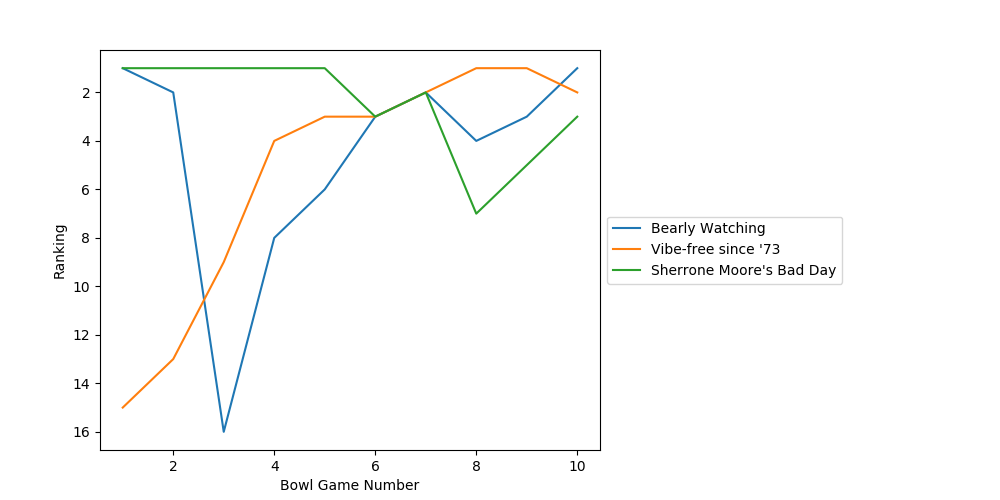
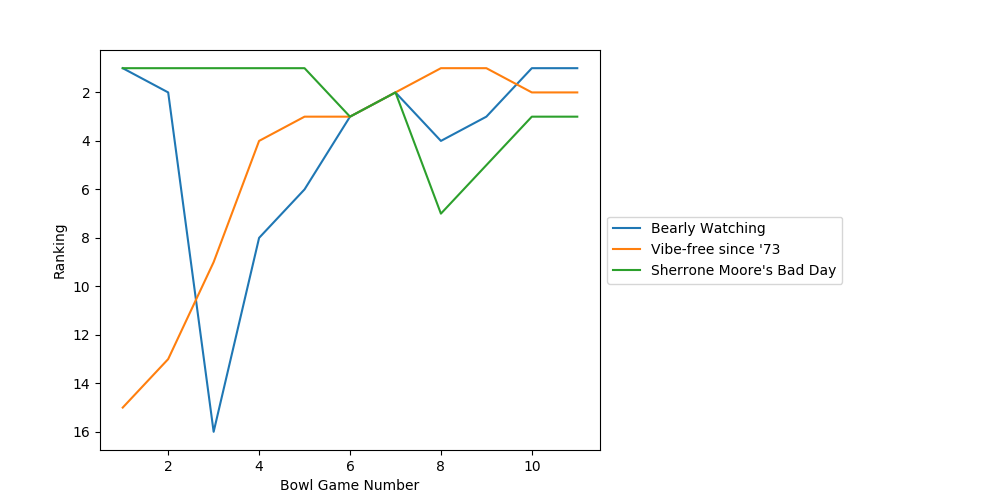
hawaii bowl update

diff --git a/bowl_pool/2025-2026/rankings.html b/bowl_pool/2025-2026/rankings.html
@@ -365,36 +365,36 @@ ul.auto-toc {
 
 
 <div class="line-block">
-<div class="line"><em>Last updated:  2025-12-24 16:04:07</em></div>
-<div class="line"><em>Last bowl scored:  SCOOTER'S COFFEE FRISCO BOWL (UNLV vs. Ohio (Bobcats))</em></div>
+<div class="line"><em>Last updated:  2025-12-25 02:04:59</em></div>
+<div class="line"><em>Last bowl scored:  SHERATON HAWAIʻI BOWL (California vs. Hawaii)</em></div>
 </div>
 <div class="line-block">
-<div class="line">1. <strong>Bearly Watching 15.25</strong></div>
-<div class="line">2. <strong>Vibe-free since '73 14.75</strong></div>
-<div class="line">3. <strong>Sherrone Moore's Bad Day 14.25</strong></div>
-<div class="line">3. We Pay Players 14.25</div>
-<div class="line">5. Battered Austin Syndrome 13.5</div>
-<div class="line">6. Mama Dawg 12.75</div>
-<div class="line">7. Down 12.5</div>
-<div class="line">8. Barkside Ballers 12.25</div>
-<div class="line">8. Dazed and Confoosballed 12.25</div>
-<div class="line">8. Eclipse 12.25</div>
-<div class="line">8. First Round SIL 12.25</div>
-<div class="line">12. #MamaBear 12.0</div>
-<div class="line">13. Wisconsin shoud've been here 10.75</div>
-<div class="line">14. Just Call Me Dr. 10.5</div>
-<div class="line">15. Sierra LeCat Dowdle 10.25</div>
-<div class="line">15. Upside 10.25</div>
-<div class="line">17. bugaroo 10.0</div>
-<div class="line">18. BlueOrRed 9.5</div>
-<div class="line">19. Sascha Picks Dogs 9.25</div>
-<div class="line">19. NoNND-Bo 2 9.25</div>
-<div class="line">19. Not So New Guy 9.25</div>
-<div class="line">22. Momma Longhorn 8.25</div>
-<div class="line">22. Call Me An Optimist 8.25</div>
+<div class="line">1. <strong>Bearly Watching 16.25</strong></div>
+<div class="line">2. <strong>Vibe-free since '73 15.75</strong></div>
+<div class="line">3. <strong>Sherrone Moore's Bad Day 15.25</strong></div>
+<div class="line">4. Battered Austin Syndrome 14.5</div>
+<div class="line">5. We Pay Players 14.25</div>
+<div class="line">6. Mama Dawg 13.75</div>
+<div class="line">7. Eclipse 13.25</div>
+<div class="line">8. #MamaBear 13.0</div>
+<div class="line">9. Down 12.5</div>
+<div class="line">10. Barkside Ballers 12.25</div>
+<div class="line">10. Dazed and Confoosballed 12.25</div>
+<div class="line">10. First Round SIL 12.25</div>
+<div class="line">13. Wisconsin shoud've been here 11.75</div>
+<div class="line">14. Just Call Me Dr. 11.5</div>
+<div class="line">15. Sierra LeCat Dowdle 11.25</div>
+<div class="line">15. Upside 11.25</div>
+<div class="line">17. Sascha Picks Dogs 10.25</div>
+<div class="line">17. NoNND-Bo 2 10.25</div>
+<div class="line">19. bugaroo 10.0</div>
+<div class="line">20. BlueOrRed 9.5</div>
+<div class="line">21. Call Me An Optimist 9.25</div>
+<div class="line">21. Not So New Guy 9.25</div>
+<div class="line">23. Momma Longhorn 8.25</div>
+<div class="line">24. Arandas legacy Year 8.0</div>
 <div class="line">24. Game of Throws 8.0</div>
-<div class="line">25. NoNND-Bo 1 7.25</div>
-<div class="line">26. Arandas legacy Year 7.0</div>
+<div class="line">26. NoNND-Bo 1 7.25</div>
 <div class="line">27. The New Mendoza Line 4.0</div>
 </div>
 </div>

diff --git a/bowl_pool/2025-2026/results.html b/bowl_pool/2025-2026/results.html
@@ -765,6 +765,39 @@ ul.auto-toc {
 <td>0.0</td>
 <td>0.0</td>
 </tr>
+<tr><td>11</td>
+<td>SHERATON HAWAIʻI BOWL</td>
+<td>California</td>
+<td>Hawaii</td>
+<td>1.5</td>
+<td>0.0</td>
+<td>1.0</td>
+<td>0.0</td>
+<td>1.0</td>
+<td>0.0</td>
+<td>1.0</td>
+<td>0.0</td>
+<td>0.0</td>
+<td>1.0</td>
+<td>1.0</td>
+<td>1.0</td>
+<td>1.0</td>
+<td>0.0</td>
+<td>1.0</td>
+<td>1.0</td>
+<td>1.0</td>
+<td>1.0</td>
+<td>0.0</td>
+<td>1.0</td>
+<td>0.0</td>
+<td>1.0</td>
+<td>0.0</td>
+<td>1.0</td>
+<td>0.0</td>
+<td>1.0</td>
+<td>0.0</td>
+<td>0.0</td>
+</tr>
 <tr><td>B1</td>
 <td>How many TD's will Marcel Reed run for?</td>
 <td>&nbsp;</td>
@@ -870,30 +903,30 @@ ul.auto-toc {
 <td>&nbsp;</td>
 <td>&nbsp;</td>
 <td><strong>12.25</strong></td>
-<td><strong>14.75</strong></td>
+<td><strong>15.75</strong></td>
 <td><strong>12.25</strong></td>
-<td><strong>9.25</strong></td>
-<td><strong>4.0</strong></td>
-<td><strong>14.25</strong></td>
-<td><strong>8.25</strong></td>
-<td><strong>10.0</strong></td>
 <td><strong>10.25</strong></td>
-<td><strong>13.5</strong></td>
-<td><strong>7.0</strong></td>
-<td><strong>12.75</strong></td>
-<td><strong>7.25</strong></td>
-<td><strong>9.25</strong></td>
-<td><strong>10.75</strong></td>
+<td><strong>4.0</strong></td>
 <td><strong>15.25</strong></td>
 <td><strong>8.25</strong></td>
-<td><strong>12.5</strong></td>
-<td><strong>12.25</strong></td>
-<td><strong>12.25</strong></td>
-<td><strong>12.0</strong></td>
-<td><strong>9.5</strong></td>
-<td><strong>10.5</strong></td>
-<td><strong>9.25</strong></td>
+<td><strong>10.0</strong></td>
+<td><strong>11.25</strong></td>
+<td><strong>14.5</strong></td>
+<td><strong>8.0</strong></td>
+<td><strong>13.75</strong></td>
+<td><strong>7.25</strong></td>
 <td><strong>10.25</strong></td>
+<td><strong>11.75</strong></td>
+<td><strong>16.25</strong></td>
+<td><strong>9.25</strong></td>
+<td><strong>12.5</strong></td>
+<td><strong>13.25</strong></td>
+<td><strong>12.25</strong></td>
+<td><strong>13.0</strong></td>
+<td><strong>9.5</strong></td>
+<td><strong>11.5</strong></td>
+<td><strong>9.25</strong></td>
+<td><strong>11.25</strong></td>
 <td><strong>14.25</strong></td>
 <td><strong>8.0</strong></td>
 </tr>

diff --git a/bowl_pool/2025-2026/index.html b/bowl_pool/2025-2026/index.html
@@ -366,8 +366,8 @@ ul.auto-toc {
 
 <p><strong>2025-2026 Bowl Pool</strong></p>
 <div class="line-block">
-<div class="line"><em>Last updated:  2025-12-24 16:04:08</em></div>
-<div class="line"><em>Last bowl scored:  SCOOTER'S COFFEE FRISCO BOWL (UNLV vs. Ohio (Bobcats))</em></div>
+<div class="line"><em>Last updated:  2025-12-25 02:05:00</em></div>
+<div class="line"><em>Last bowl scored:  SHERATON HAWAIʻI BOWL (California vs. Hawaii)</em></div>
 </div>
 <ul class="simple">
 <li><a class="reference external" href="rankings.html">Rankings</a> (<a class="reference external" href="rankings.csv">csv</a>)</li>
